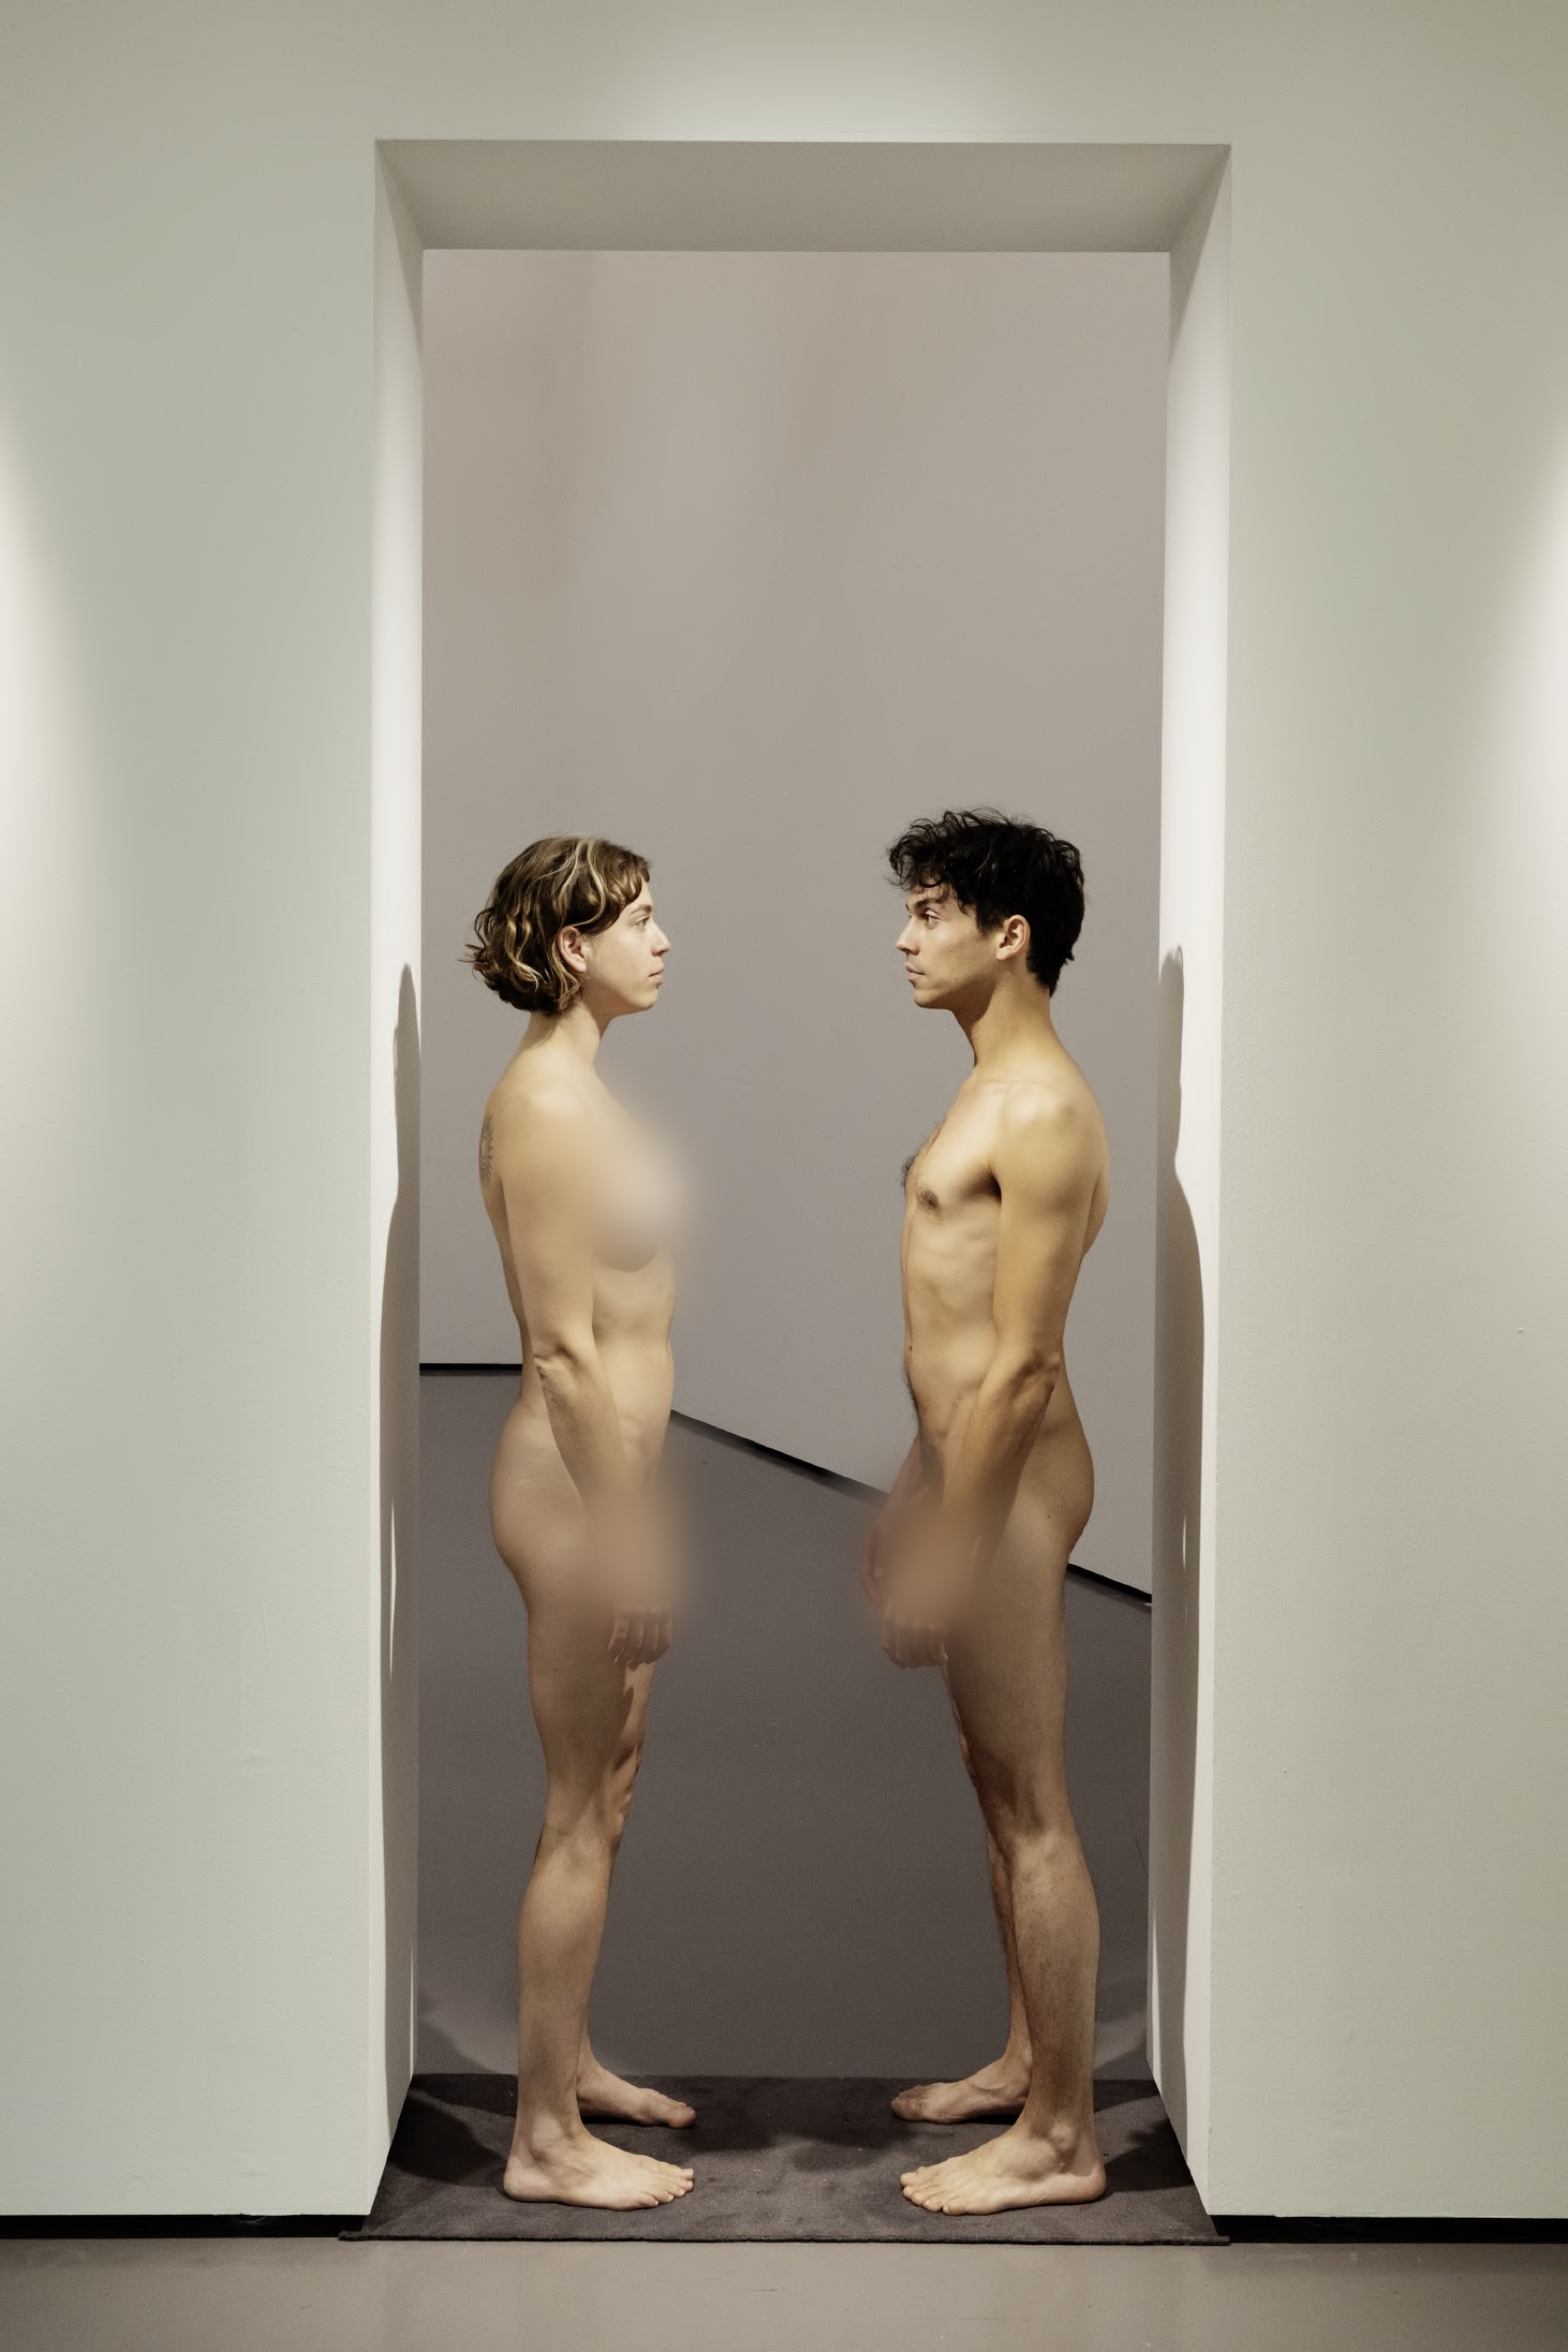
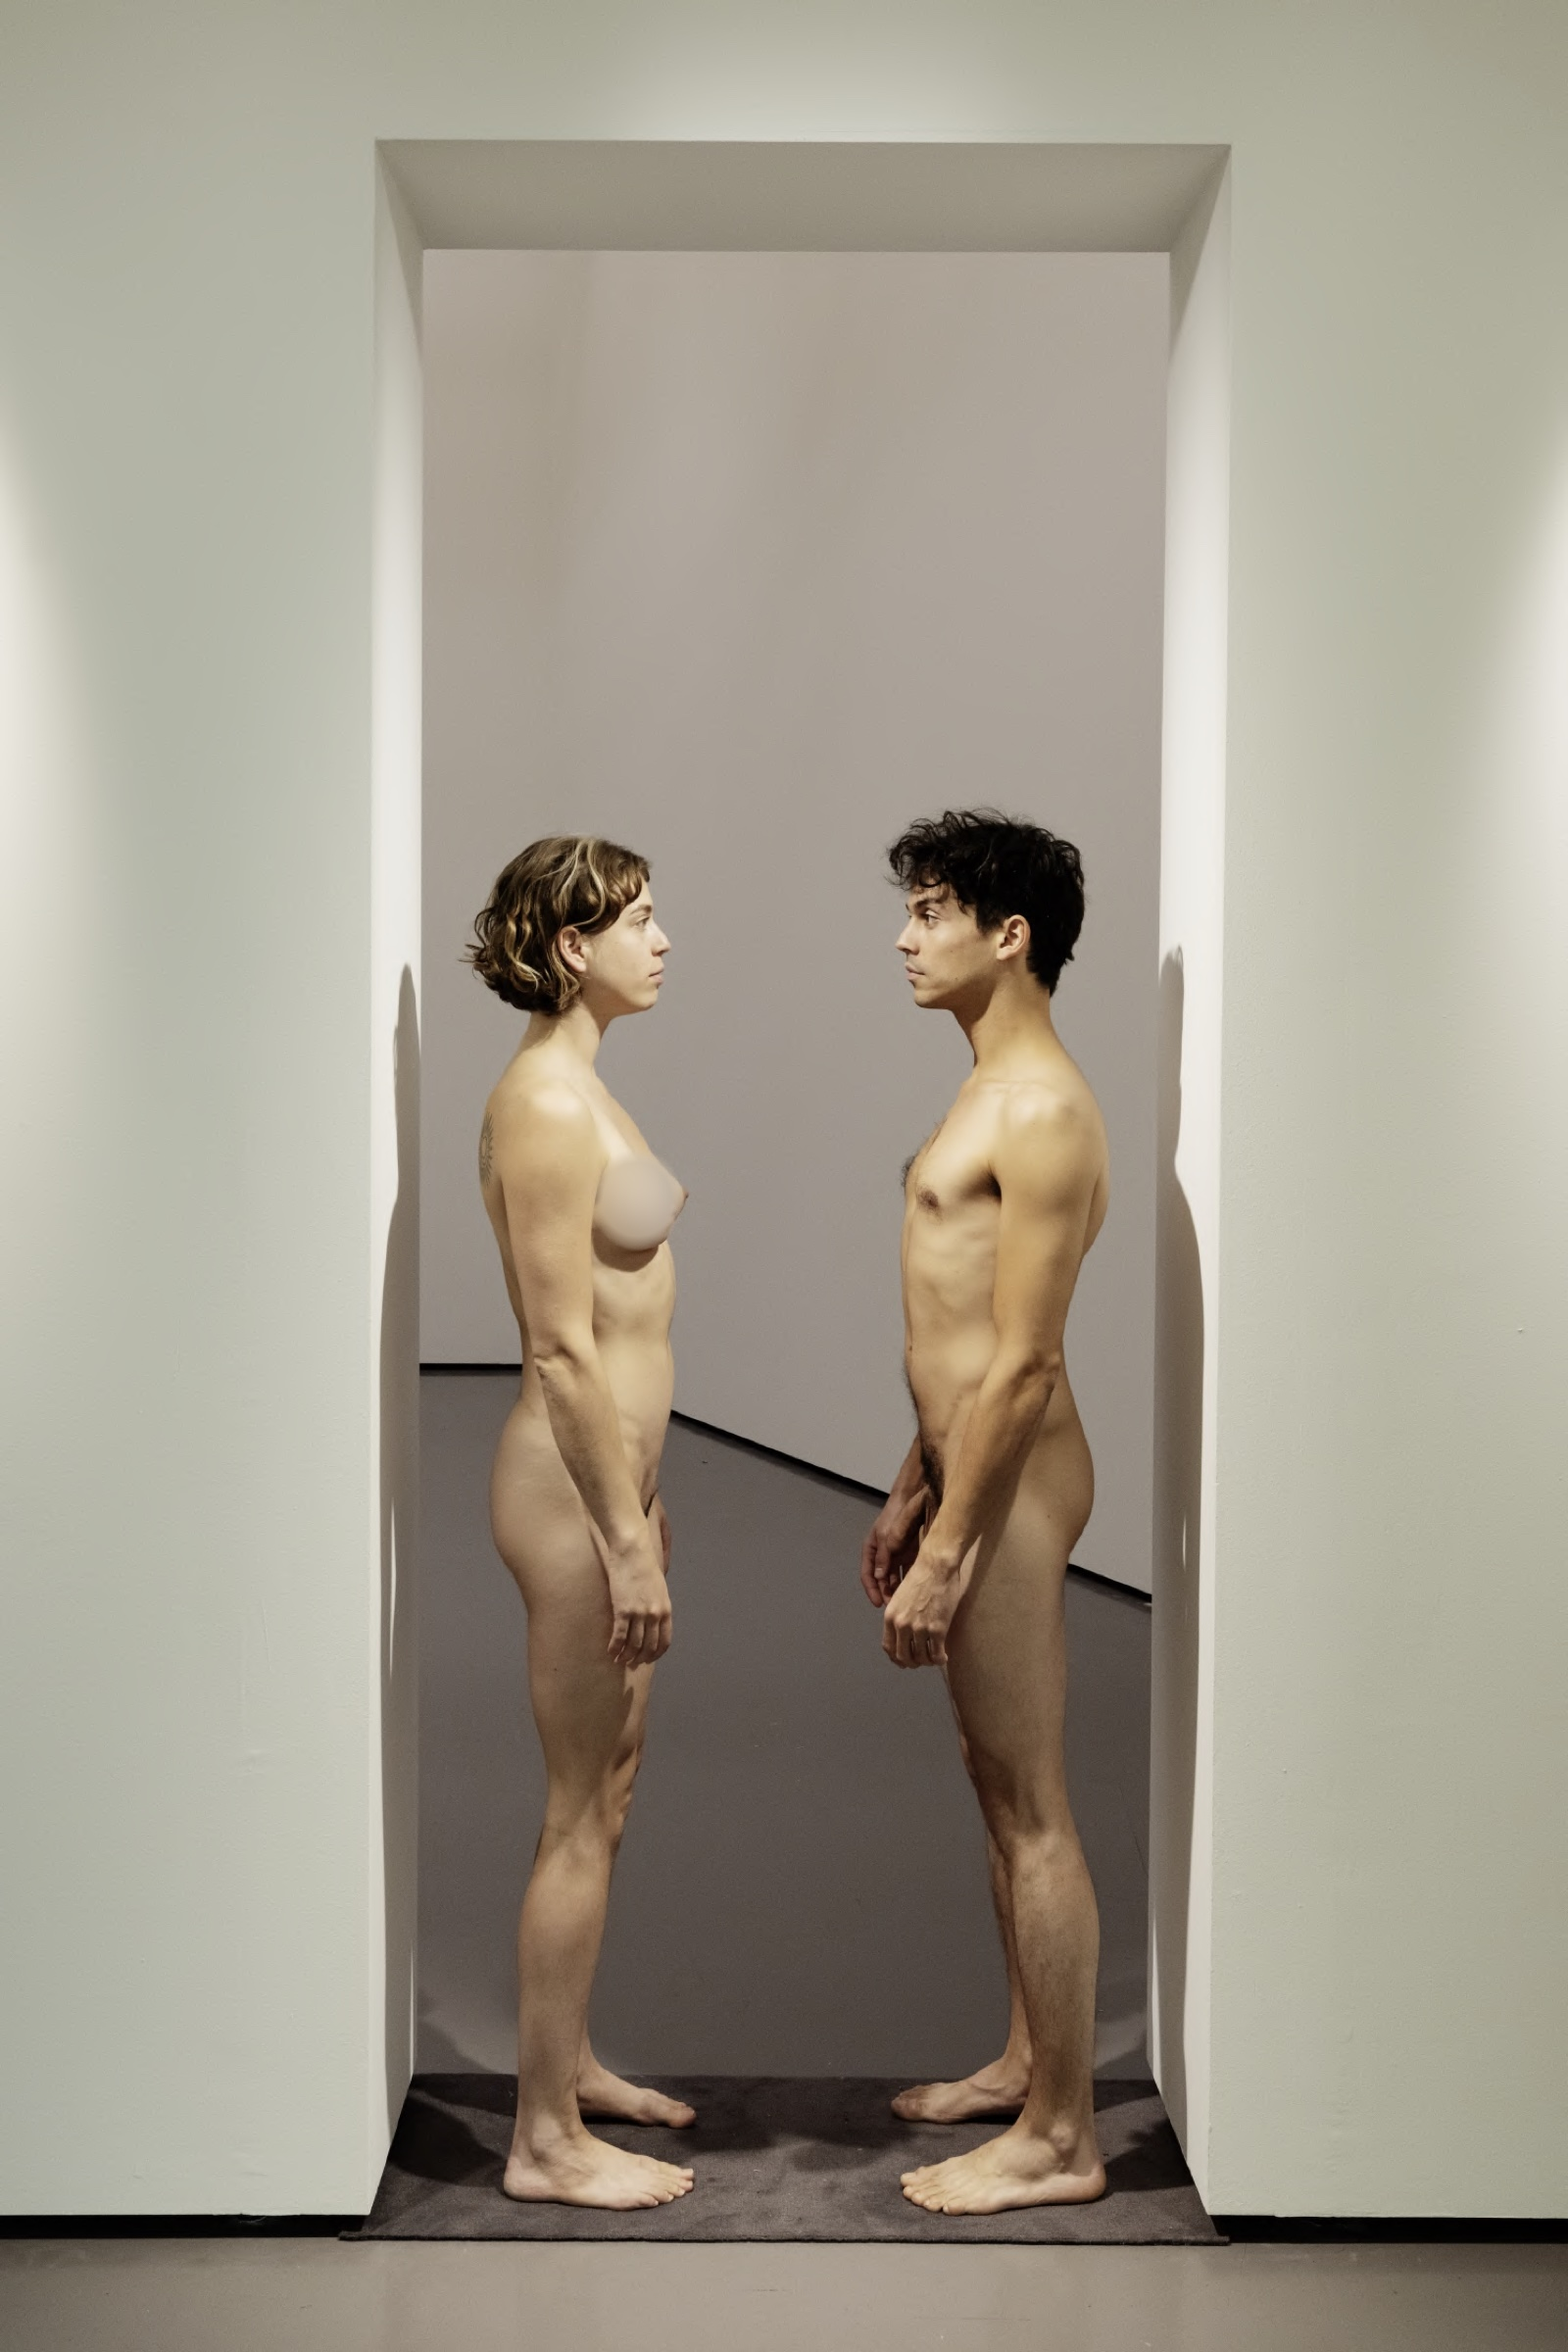
Smaller blur: only Caro's breast and Luminosity
Nude with Skeleton is back to the original; Imponderabilia keeps a small
blur on the breast only; Luminosity a tight one on the genitals.

diff --git a/index.html b/index.html
@@ -511,7 +511,7 @@ table.rec tr:first-child td{border-top:1px solid var(--ink)}
     </div>
   </div></div>
 </article>
-    <button class="row" data-layer="museum" data-img="img/abramovic-imponderabilia-2025.jpg?v=2"><span class="n">04</span><span class="t">Museum</span><span class="d">Marina Abramović, Florentina Holzinger, Manifesta&nbsp;11.</span><span class="a" aria-hidden="true">+</span></button>
+    <button class="row" data-layer="museum" data-img="img/abramovic-imponderabilia-2025.jpg?v=3"><span class="n">04</span><span class="t">Museum</span><span class="d">Marina Abramović, Florentina Holzinger, Manifesta&nbsp;11.</span><span class="a" aria-hidden="true">+</span></button>
 <article class="layer" id="l-museum" data-n="Ruben" data-title="Museum" aria-label="Museum">
   <div class="wrap"><div class="in">
     <div class="side"><div class="label owner">Ruben · Own work</div><button class="shut">Close</button></div>
@@ -520,9 +520,9 @@ table.rec tr:first-child td{border-top:1px solid var(--ink)}
     <p class="lead">Durational, body-based work for artists who ask a performer to hold still, stay exposed and repeat. Reperformer in Marina Abramović’s retrospective at Kunsthaus Zürich, and this December in her <i>Balkan Erotic Epic</i> at Park Avenue Armory.</p>
 
     <div class="figs">
-      <figure class="w5"><img class="zoom" src="img/abramovic-imponderabilia-2025.jpg?v=2" alt="Two naked performers facing each other in a narrow doorway" width="1494" height="2241" loading="lazy"><figcaption>Marina Abramović, <i>Imponderabilia</i>. Kunsthaus Zürich, 2025.</figcaption></figure>
-      <figure class="w7"><img class="zoom" src="img/abramovic-nude-with-skeleton-2025.jpg?v=2" alt="Performer lying under a skeleton on a white plinth" width="2187" height="1458" loading="lazy"><figcaption>Marina Abramović, <i>Nude with Skeleton</i>. Kunsthaus Zürich, 2025.</figcaption></figure>
-      <figure class="w5 push5"><img class="zoom" src="img/abramovic-luminosity-2025.jpg?v=2" alt="Naked performer suspended on a wall, arms raised" width="1600" height="2400" loading="lazy"><figcaption>Marina Abramović, <i>Luminosity</i>. Kunsthaus Zürich, 2025.</figcaption></figure>
+      <figure class="w5"><img class="zoom" src="img/abramovic-imponderabilia-2025.jpg?v=3" alt="Two naked performers facing each other in a narrow doorway" width="1494" height="2241" loading="lazy"><figcaption>Marina Abramović, <i>Imponderabilia</i>. Kunsthaus Zürich, 2025.</figcaption></figure>
+      <figure class="w7"><img class="zoom" src="img/abramovic-nude-with-skeleton-2025.jpg?v=3" alt="Performer lying under a skeleton on a white plinth" width="2187" height="1458" loading="lazy"><figcaption>Marina Abramović, <i>Nude with Skeleton</i>. Kunsthaus Zürich, 2025.</figcaption></figure>
+      <figure class="w5 push5"><img class="zoom" src="img/abramovic-luminosity-2025.jpg?v=3" alt="Naked performer suspended on a wall, arms raised" width="1600" height="2400" loading="lazy"><figcaption>Marina Abramović, <i>Luminosity</i>. Kunsthaus Zürich, 2025.</figcaption></figure>
     </div>
 
     <h3>Selected</h3>

diff --git a/ruben.html b/ruben.html
@@ -401,9 +401,9 @@ table.rec tr:first-child td{border-top:1px solid var(--ink)}
     <p class="lead">Durational, body-based work for artists who ask a performer to hold still, stay exposed and repeat. Reperformer in Marina Abramović’s retrospective at Kunsthaus Zürich, and this December in her <i>Balkan Erotic Epic</i> at Park Avenue Armory.</p>
 
     <div class="figs">
-      <figure class="w5"><img class="zoom" src="img/abramovic-imponderabilia-2025.jpg?v=2" alt="Two naked performers facing each other in a narrow doorway" width="1494" height="2241" loading="lazy"><figcaption>Marina Abramović, <i>Imponderabilia</i>. Kunsthaus Zürich, 2025.</figcaption></figure>
-      <figure class="w7"><img class="zoom" src="img/abramovic-nude-with-skeleton-2025.jpg?v=2" alt="Performer lying under a skeleton on a white plinth" width="2187" height="1458" loading="lazy"><figcaption>Marina Abramović, <i>Nude with Skeleton</i>. Kunsthaus Zürich, 2025.</figcaption></figure>
-      <figure class="w5 push5"><img class="zoom" src="img/abramovic-luminosity-2025.jpg?v=2" alt="Naked performer suspended on a wall, arms raised" width="1600" height="2400" loading="lazy"><figcaption>Marina Abramović, <i>Luminosity</i>. Kunsthaus Zürich, 2025.</figcaption></figure>
+      <figure class="w5"><img class="zoom" src="img/abramovic-imponderabilia-2025.jpg?v=3" alt="Two naked performers facing each other in a narrow doorway" width="1494" height="2241" loading="lazy"><figcaption>Marina Abramović, <i>Imponderabilia</i>. Kunsthaus Zürich, 2025.</figcaption></figure>
+      <figure class="w7"><img class="zoom" src="img/abramovic-nude-with-skeleton-2025.jpg?v=3" alt="Performer lying under a skeleton on a white plinth" width="2187" height="1458" loading="lazy"><figcaption>Marina Abramović, <i>Nude with Skeleton</i>. Kunsthaus Zürich, 2025.</figcaption></figure>
+      <figure class="w5 push5"><img class="zoom" src="img/abramovic-luminosity-2025.jpg?v=3" alt="Naked performer suspended on a wall, arms raised" width="1600" height="2400" loading="lazy"><figcaption>Marina Abramović, <i>Luminosity</i>. Kunsthaus Zürich, 2025.</figcaption></figure>
     </div>
 
     <h3>Selected</h3>
